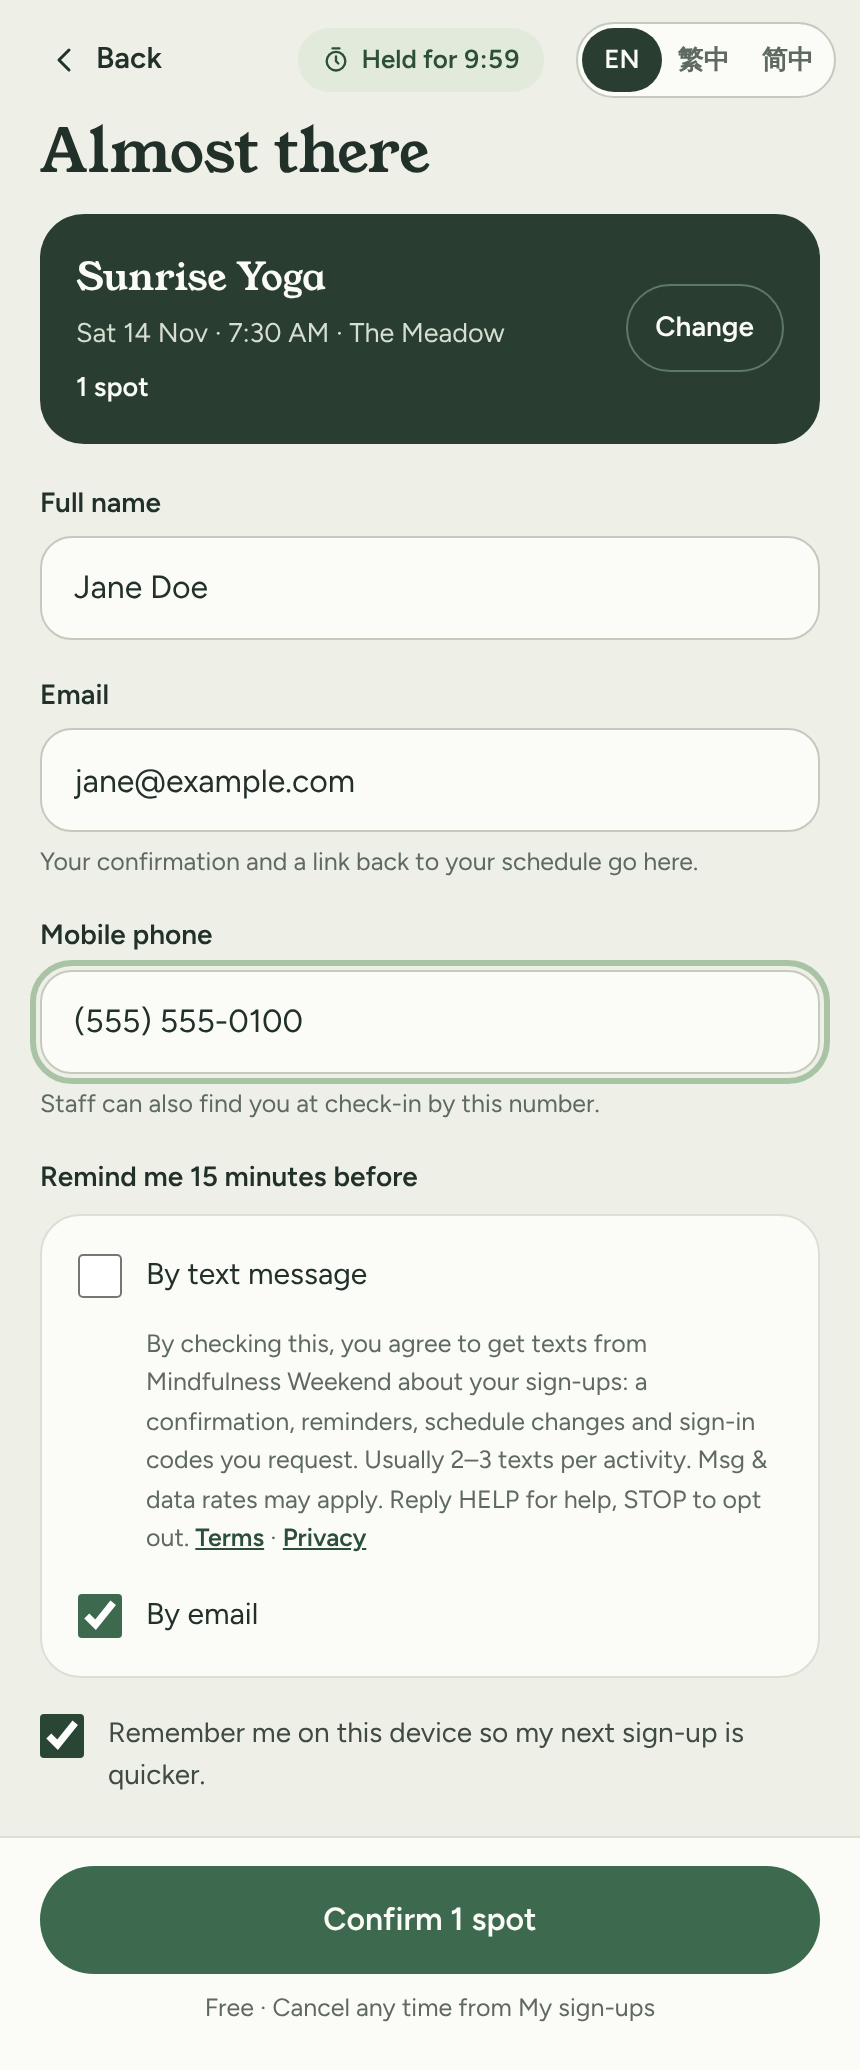
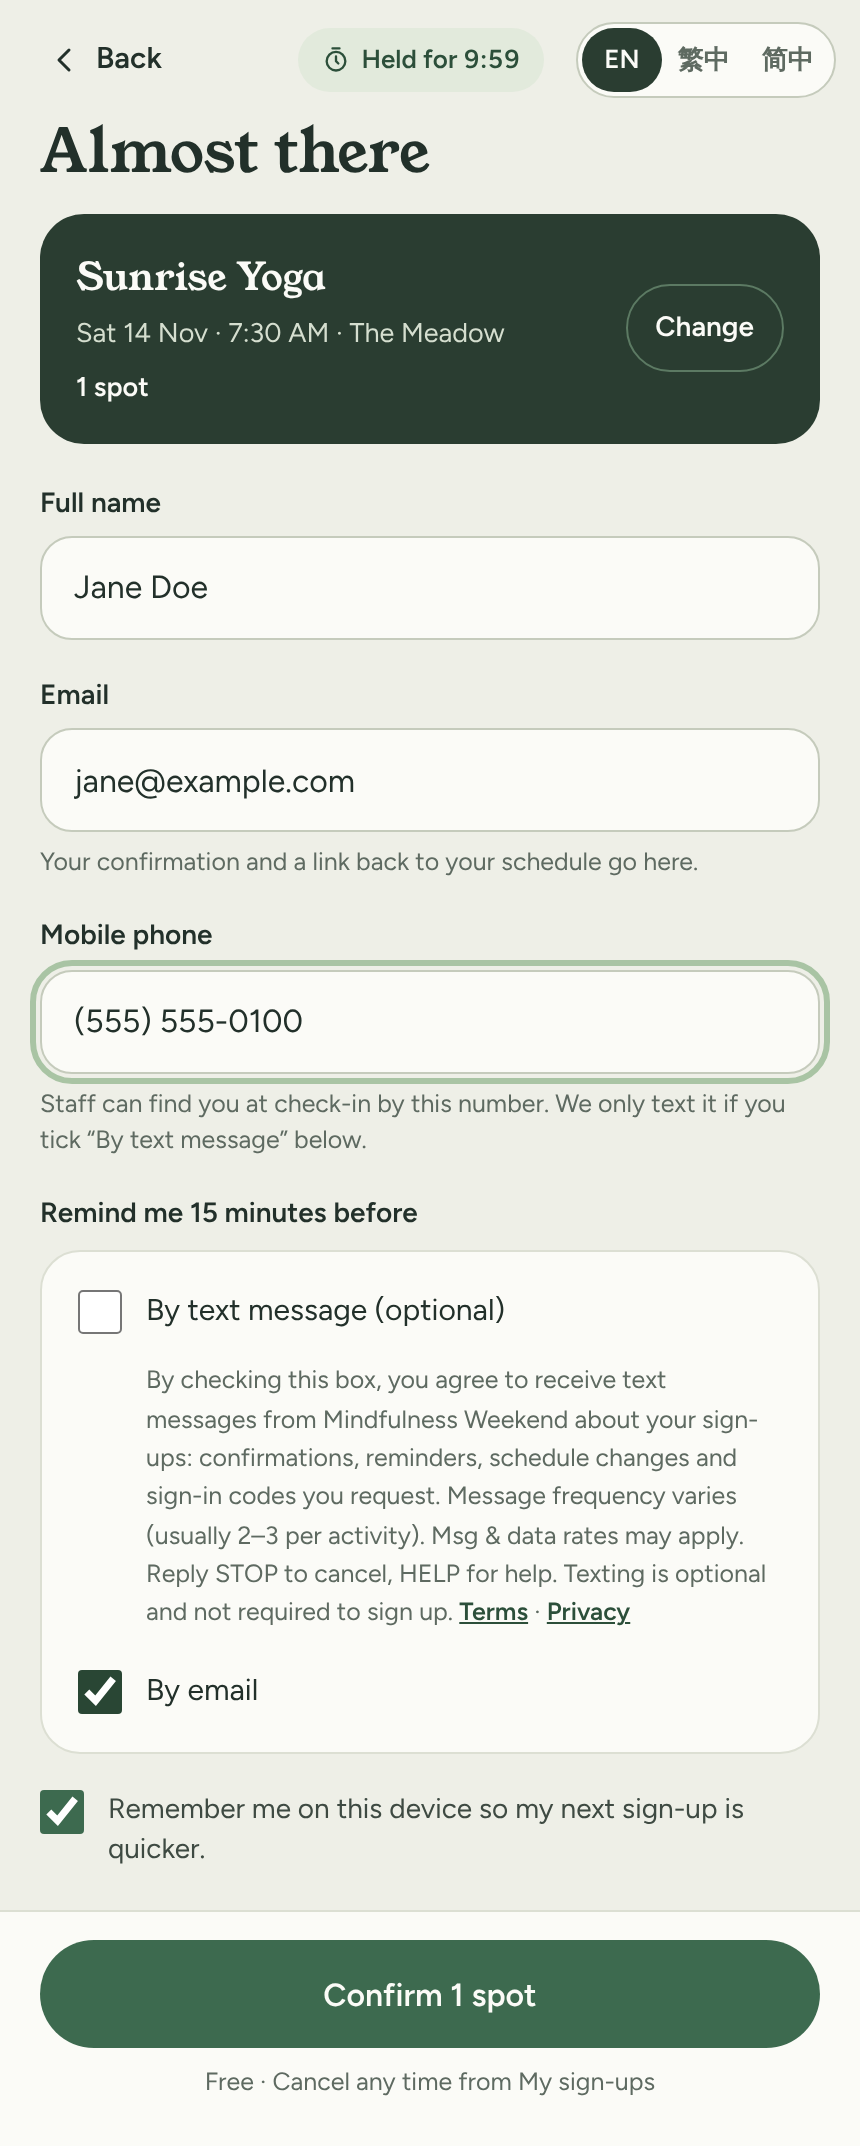
Opt-in: standard carrier wording, "(optional)" label, live sample form on /sms-opt-in
- Consent text now uses the exact phrases carriers check for: message types,
  "Message frequency varies", "Msg & data rates may apply", "Reply STOP to
  cancel, HELP for help", and that texting isn't required to sign up
- "By text message (optional)"; the phone hint says we only text it if ticked
- /sms-opt-in shows the real contact fields, phone included, with the unchecked
  consent box as page elements (not only a picture); refreshed screenshot

Claude-Session: https://claude.ai/code/session_01Js1m6sqRAEqqMC9RyX5Hcf

diff --git a/src/lib/i18n.ts b/src/lib/i18n.ts
@@ -79,14 +79,14 @@ const en = {
   email: 'Email',
   emailHint: 'Your confirmation and a link back to your schedule go here.',
   phone: 'Mobile phone',
-  phoneHint: 'Staff can also find you at check-in by this number.',
+  phoneHint: 'Staff can find you at check-in by this number. We only text it if you tick “By text message” below.',
   remindLegend: 'Remind me 15 minutes before',
-  bySms: 'By text message',
+  bySms: 'By text message (optional)',
   byEmail: 'By email',
   noReminderWarn: 'You won’t get a reminder for this activity.',
   rememberMe: 'Remember me on this device so my next sign-up is quicker.',
   smsConsent: (event: string) =>
-    `By checking this, you agree to get texts from ${event} about your sign-ups: a confirmation, reminders, schedule changes and sign-in codes you request. Usually 2–3 texts per activity. Msg & data rates may apply. Reply HELP for help, STOP to opt out.`,
+    `By checking this box, you agree to receive text messages from ${event} about your sign-ups: confirmations, reminders, schedule changes and sign-in codes you request. Message frequency varies (usually 2–3 per activity). Msg & data rates may apply. Reply STOP to cancel, HELP for help. Texting is optional and not required to sign up.`,
   terms: 'Terms',
   organizedBy: (org: string, parent: string) => `Organized by ${org}, part of ${parent}.`,
   privacy: 'Privacy',
@@ -267,14 +267,14 @@ const zh: Dict = {
   email: '電子郵件',
   emailHint: '報名確認信和查看行程的連結會寄到這裡。',
   phone: '手機號碼',
-  phoneHint: '報到時，工作人員也可以用這個號碼找到你。',
+  phoneHint: '報到時，工作人員可以用這個號碼找到你。只有在你勾選下方「以簡訊提醒」時，我們才會傳簡訊到這個號碼。',
   remindLegend: '開始前 15 分鐘提醒我',
-  bySms: '以簡訊提醒',
+  bySms: '以簡訊提醒（選填）',
   byEmail: '以電子郵件提醒',
   noReminderWarn: '這個活動將不會收到提醒。',
   rememberMe: '在這台裝置上記住我，下次報名更快。',
   smsConsent: (event) =>
-    `勾選即表示你同意接收${event}傳送與你的報名相關的簡訊：報名確認、活動提醒、時段異動，以及你申請的登入代碼。每項活動通常 2–3 則。可能產生簡訊及數據傳輸費用。回覆 HELP 取得協助，回覆 STOP 取消簡訊。`,
+    `勾選此方框，即表示你同意接收${event}傳送與你的報名相關的簡訊：報名確認、活動提醒、時段異動，以及你申請的登入代碼。簡訊頻率不一（每項活動通常 2–3 則）。可能產生簡訊及數據傳輸費用。回覆 STOP 取消，回覆 HELP 取得協助。簡訊為選擇性服務，不勾選也能報名。`,
   terms: '使用條款',
   organizedBy: (org, parent) => `由 ${org} 主辦，隸屬 ${parent}。`,
   privacy: '隱私權政策',
@@ -448,14 +448,14 @@ const zhs: Dict = {
   email: '邮箱',
   emailHint: '报名确认邮件和查看行程的链接会发送到这里。',
   phone: '手机号码',
-  phoneHint: '签到时，工作人员也可以用这个号码找到你。',
+  phoneHint: '签到时，工作人员可以用这个号码找到你。只有在你勾选下方“以短信提醒”时，我们才会给这个号码发短信。',
   remindLegend: '开始前 15 分钟提醒我',
-  bySms: '以短信提醒',
+  bySms: '以短信提醒（可选）',
   byEmail: '以邮件提醒',
   noReminderWarn: '这个活动将不会收到提醒。',
   rememberMe: '在这台设备上记住我，下次报名更快。',
   smsConsent: (event) =>
-    `勾选即表示你同意接收${event}发送的与你的报名相关的短信：报名确认、活动提醒、时段变更，以及你申请的登录验证码。每项活动通常 2–3 条。可能产生短信和数据流量费用。回复 HELP 获取帮助，回复 STOP 退订。`,
+    `勾选此方框，即表示你同意接收${event}发送的与你的报名相关的短信：报名确认、活动提醒、时段变更，以及你申请的登录验证码。短信频率不一（每项活动通常 2–3 条）。可能产生短信和数据流量费用。回复 STOP 退订，回复 HELP 获取帮助。短信为可选服务，不勾选也能报名。`,
   terms: '使用条款',
   organizedBy: (org, parent) => `由 ${org} 主办，隶属于 ${parent}。`,
   privacy: '隐私政策',

diff --git a/src/app/sms-opt-in/page.tsx b/src/app/sms-opt-in/page.tsx
@@ -37,15 +37,37 @@ export default async function SmsOptIn() {
           <li>On the details page they enter their name, email and mobile number.</li>
           <li>
             Under “Remind me 15 minutes before” is a separate checkbox, <b>unchecked by default</b>, labeled
-            “By text message”. Directly beneath it they see:
+            “By text message (optional)”. Directly beneath it they see:
             <blockquote className="quote">
               {dict('en').smsConsent(event)} <a href="/terms">Terms</a> · <a href="/privacy">Privacy</a>
             </blockquote>
           </li>
           <li>We text the attendee only if they tick that box themselves. Booking works whether or not they do.</li>
         </ol>
+        <p>
+          Here is that part of the sign-up form, exactly as it appears on the details page (this sample doesn’t submit;
+          the real form is reached by picking an activity and time on the home page):
+        </p>
+        <form className="sample" aria-label="Sample of the sign-up form's contact and text-message consent section">
+          <div className="field"><label htmlFor="s-name">Full name</label><input id="s-name" name="name" className="input" autoComplete="off" placeholder="Jane Doe" /></div>
+          <div className="field"><label htmlFor="s-email">Email</label><input id="s-email" name="email" type="email" className="input" autoComplete="off" placeholder="jane@example.com" /></div>
+          <div className="field">
+            <label htmlFor="s-phone">Mobile phone</label>
+            <input id="s-phone" name="phone" type="tel" className="input" autoComplete="off" placeholder="(555) 555-0100" aria-describedby="s-phone-hint" />
+            <span id="s-phone-hint" className="hint">{dict('en').phoneHint}</span>
+          </div>
+          <fieldset>
+            <legend className="legend">{dict('en').remindLegend}</legend>
+            <label className="check"><input type="checkbox" name="sms_consent" value="yes" aria-describedby="s-consent" /> {dict('en').bySms}</label>
+            <p id="s-consent" className="consent">
+              {dict('en').smsConsent(event)} <a href="/terms">Terms</a> · <a href="/privacy">Privacy</a>
+            </p>
+            <label className="check"><input type="checkbox" name="email_reminder" defaultChecked /> {dict('en').byEmail}</label>
+          </fieldset>
+          <button type="button" className="btn" disabled>Confirm 1 spot (sample, doesn’t submit)</button>
+        </form>
         <figure className="shot">
-          <img src="/sms-opt-in/sign-up-form.png" alt="The sign-up details page: name, email and mobile phone fields, then an unchecked “By text message” box with the consent wording and Terms and Privacy links beneath it." width={430} height={1035} />
+          <img src="/sms-opt-in/sign-up-form.png" alt="The sign-up details page: name, email and mobile phone fields, then an unchecked “By text message” box with the consent wording and Terms and Privacy links beneath it." width={430} height={1073} />
           <figcaption>The details page as attendees see it. The “By text message” box starts unchecked.</figcaption>
         </figure>
 

diff --git a/src/app/globals.css b/src/app/globals.css
@@ -305,3 +305,7 @@ select.input { padding: 0 14px; }
 .legal .shot { margin: 14px 0 6px; }
 .legal .shot img { display: block; width: 100%; height: auto; border: 1px solid var(--line); border-radius: 16px; background: var(--paper); }
 .legal .shot figcaption { margin-top: 6px; font-size: 13px; color: var(--muted); }
+
+.legal .sample { display: flex; flex-direction: column; gap: 14px; margin: 12px 0 18px; padding: 18px; border: 1px dashed var(--line-strong); border-radius: 20px; background: var(--ground); }
+.legal .sample fieldset { border: 1px solid var(--line); border-radius: 16px; padding: 10px 14px; margin: 0; background: var(--paper); }
+.legal .sample .btn[disabled] { opacity: 0.6; }
